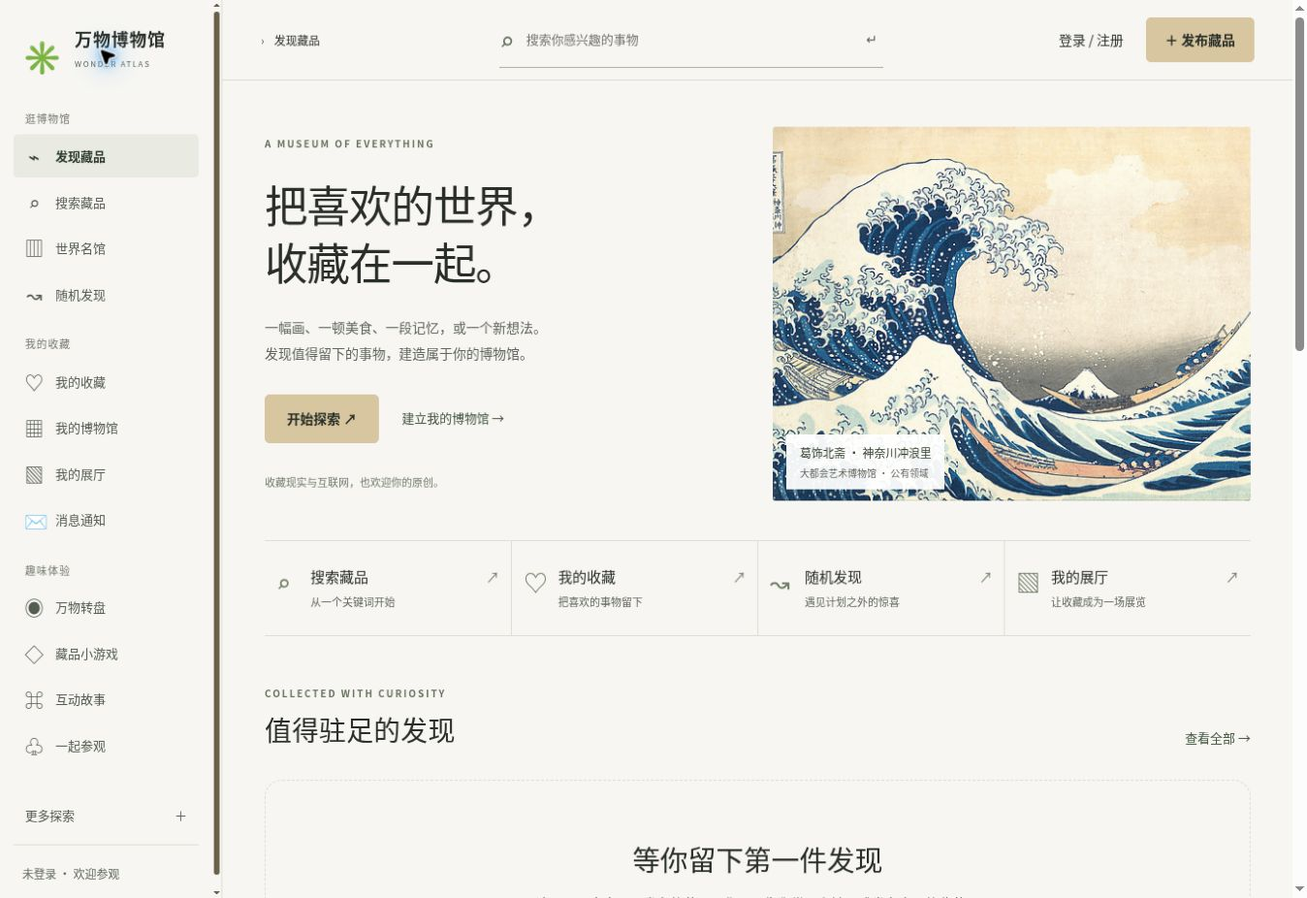
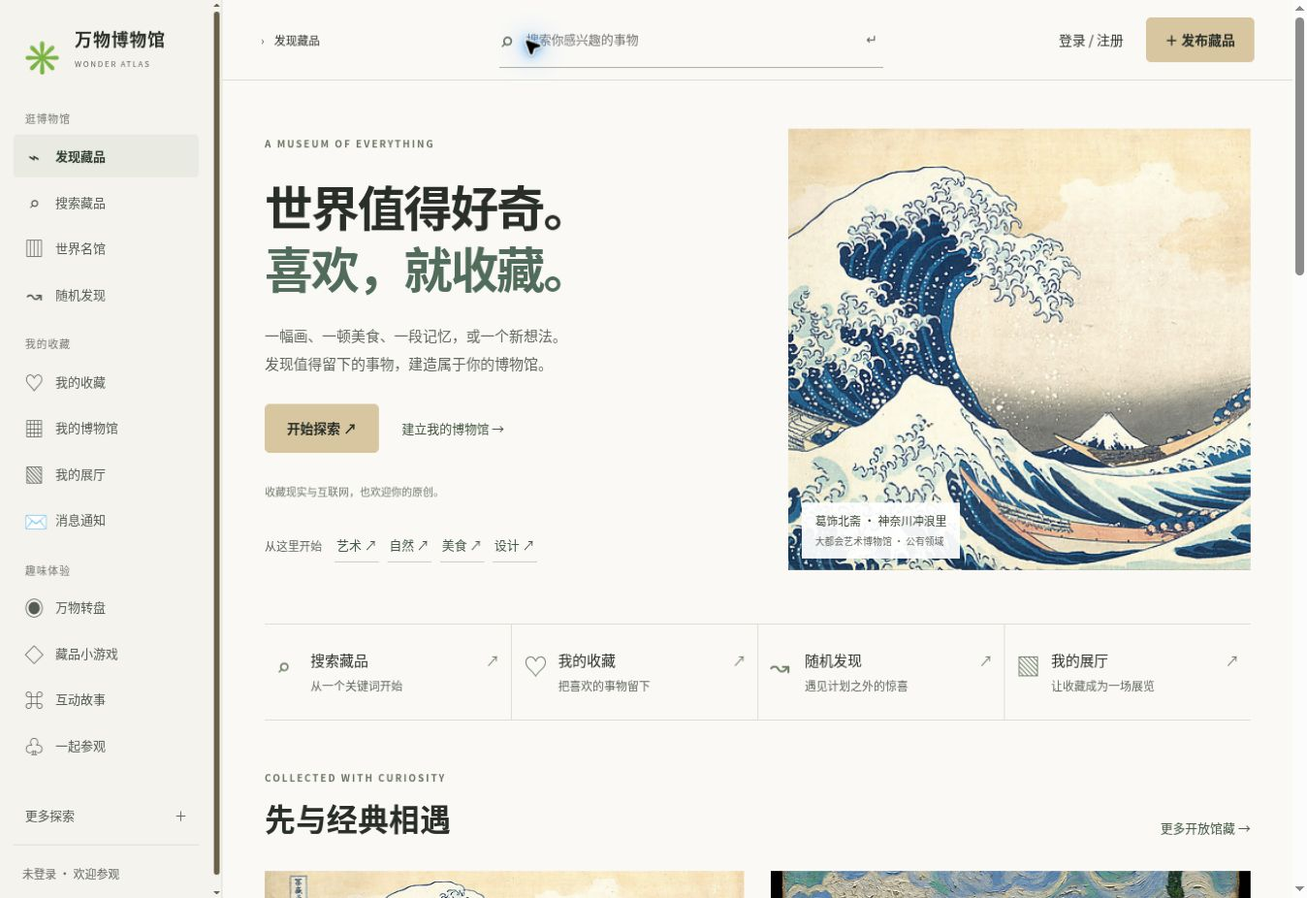
Refine museum editorial design and clearer collection onboarding [skip ci]

diff --git a/static/app.js b/static/app.js
@@ -75,14 +75,15 @@ async function discover(){
  const feed=await api(`/feed?sort=popular&page=1`);S.items=feed.items;
  const withImage=feed.items.find(x=>x.image_url);
  const feature=withImage?`<button class="museum-cover" data-action="detail" data-id="${withImage.id}"><img src="${E(withImage.image_url)}" alt="${E(withImage.title)}"><span>${E(withImage.title)} ↗</span></button>`:`<div class="museum-cover museum-cover-empty"><img src="/static/assets/museum/wave.jpg" alt="葛饰北斋《神奈川冲浪里》，大都会艺术博物馆开放馆藏"><div class="cover-caption">葛饰北斋 · 神奈川冲浪里<br><small>大都会艺术博物馆 · 公有领域</small></div></div>`;
- return `<section class="museum-hero"><div class="museum-hero-copy"><div class="eyebrow">A MUSEUM OF EVERYTHING</div><h1>把喜欢的世界，<br>收藏在一起。</h1><p>一幅画、一顿美食、一段记忆，或一个新想法。<br>发现值得留下的事物，建造属于你的博物馆。</p><div class="hero-buttons"><button class="primary" data-action="navigate" data-view="search">开始探索 ↗</button><button class="text-button" data-action="navigate" data-view="museum">建立我的博物馆 →</button></div><small class="hero-note">收藏现实与互联网，也欢迎你的原创。</small></div>${feature}</section>
+ return `<section class="museum-hero"><div class="museum-hero-copy"><div class="eyebrow">A MUSEUM OF EVERYTHING</div><h1>世界值得好奇。<br><em>喜欢，就收藏。</em></h1><p>一幅画、一顿美食、一段记忆，或一个新想法。<br>发现值得留下的事物，建造属于你的博物馆。</p><div class="hero-buttons"><button class="primary" data-action="navigate" data-view="search">开始探索 ↗</button><button class="text-button" data-action="navigate" data-view="museum">建立我的博物馆 →</button></div><small class="hero-note">收藏现实与互联网，也欢迎你的原创。</small><div class="hero-topics" aria-label="搜索灵感"><span>从这里开始</span><button data-action="searchPreset" data-value="艺术">艺术 ↗</button><button data-action="searchPreset" data-value="自然">自然 ↗</button><button data-action="searchPreset" data-value="美食">美食 ↗</button><button data-action="searchPreset" data-value="设计">设计 ↗</button></div></div>${feature}</section>
  <nav class="home-shortcuts" aria-label="开始探索">${[['search','⌕','搜索藏品','从一个关键词开始'],['saved','♡','我的收藏','把喜欢的事物留下'],['journey','↝','随机发现','遇见计划之外的惊喜'],['virtual-gallery','▧','我的展厅','让收藏成为一场展览']].map(([v,i,t,d])=>`<button data-action="navigate" data-view="${v}"><span>${i}</span><b>${t}</b><small>${d}</small><i>↗</i></button>`).join('')}</nav>
- <section class="home-section"><div class="home-section-head"><div><div class="eyebrow">COLLECTED WITH CURIOSITY</div><h2>值得驻足的发现</h2></div><button class="text-button" data-action="navigate" data-view="search">查看全部 →</button></div>${feed.items.length?`<div class="card-grid">${feed.items.slice(0,6).map(card).join('')}</div>`:empty('等你留下第一件发现','这里展示大家公开发布的藏品。你可以先逛世界名馆，或发布自己的收藏。','<button class="ghost" data-action="new">＋ 发布藏品</button>')}</section>
+ <section class="home-section"><div class="home-section-head"><div><div class="eyebrow">COLLECTED WITH CURIOSITY</div><h2>${feed.items.length?'值得驻足的发现':'先与经典相遇'}</h2></div><button class="text-button" data-action="navigate" data-view="${feed.items.length?'search':'world-museums'}">${feed.items.length?'查看全部':'更多开放馆藏'} →</button></div>${feed.items.length?`<div class="card-grid">${feed.items.slice(0,6).map(card).join('')}</div>`:`<div class="editorial-collection"><a href="https://www.metmuseum.org/art/collection/search/45434" target="_blank" rel="noopener noreferrer"><img src="/static/assets/museum/wave.jpg" alt="葛饰北斋的木版画神奈川冲浪里" loading="lazy"><div><small>版画 / 约 1830–1832 年</small><h3>神奈川冲浪里</h3><p>葛饰北斋 · 大都会艺术博物馆</p><span>查看官方档案 ↗</span></div></a><a href="https://www.metmuseum.org/art/collection/search/436535" target="_blank" rel="noopener noreferrer"><img src="/static/assets/museum/cypresses.jpg" alt="梵高的油画麦田与柏树" loading="lazy"><div><small>油画 / 1889 年</small><h3>麦田与柏树</h3><p>文森特·梵高 · 大都会艺术博物馆</p><span>查看官方档案 ↗</span></div></a></div><p class="collection-note">开放馆藏选读 · 图片为公有领域作品。社区的新发现将在有人公开发布后显示。</p>`}</section>
+ <section class="collector-start" aria-label="新手指南"><div><div class="eyebrow">YOUR OWN MUSEUM</div><h2>你的博物馆，<br>从一件喜欢开始。</h2><button class="text-button" data-action="navigate" data-view="museum">进入我的博物馆 →</button></div><ol><li><b>发现与收藏</b><p>搜索感兴趣的内容，在藏品档案里点收藏。</p></li><li><b>发布你的发现</b><p>上传图片、保存链接或记录想法，自选公开或私密。</p></li><li><b>按主题布置展厅</b><p>整理自己的藏品，建立展厅，再邀请朋友参观。</p></li></ol></section>
  <section class="home-section"><div class="home-section-head"><div><div class="eyebrow">FIND YOUR INTEREST</div><h2>从兴趣出发</h2></div></div><div class="domain-browser">${Object.entries(TAX.groups).map(([d,cats],i)=>`<details class="domain-row" ${i>=6?'data-extra-domain hidden':''}><summary><span class="domain-number">${String(i+1).padStart(2,'0')}</span><b>${E(d)}</b><small>${cats.length} 个分类</small><span>＋</span></summary><div class="domain-children"><button data-action="taxonomyDomain" data-value="${E(d)}">浏览整个领域 →</button>${cats.map(c=>`<button data-action="taxonomyCategory" data-value="${E(c)}" data-domain="${E(d)}">${E(c)}</button>`).join('')}</div></details>`).join('')}</div><button class="text-button" data-action="allDomains" aria-expanded="false">展开全部 ${Object.keys(TAX.groups).length} 个领域 ↓</button></section>
  <section class="museum-collection-promo"><img src="/static/assets/museum/cypresses.jpg" alt="梵高《麦田与柏树》，大都会艺术博物馆公有领域馆藏" loading="lazy"><div><div class="eyebrow">THE WORLD'S COLLECTIONS</div><h2>走近世界名馆，<br>从一件作品开始。</h2><p>浏览大都会、芝加哥与克利夫兰艺术博物馆的真实开放馆藏，查看来源，再收入自己的博物馆。</p><button class="ghost" data-action="navigate" data-view="world-museums">走进世界名馆 ↗</button></div></section>
  <section class="home-section"><div class="home-section-head"><div><div class="eyebrow">A LITTLE PLAY, A NEW DISCOVERY</div><h2>换一种方式逛博物馆</h2></div></div><div class="experience-links"><button data-action="navigate" data-view="wheels"><span>01 / 随机选择</span><h3>今天，选哪一个？</h3><p>把收藏加入转盘，吃什么、看什么，都可以抽。</p><b>打开万物转盘 ↗</b></button><button data-action="navigate" data-view="play"><span>02 / 藏品小游戏</span><h3>让好奇心动起来。</h3><p>用真实公开藏品玩记忆、配对和互动游戏。</p><b>开始玩 ↗</b></button><button data-wa="module" data-value="11"><span>03 / 一起参观</span><h3>好东西，一起看。</h3><p>创建参观房间，用房间码邀请朋友一起逛。</p><b>邀请朋友 ↗</b></button></div></section>`;
 }
-async function museum(){if(!S.user)return guest('建造属于自己的世界','注册一个账号，便能发布展品、布置展厅，并向其他人公开展示。');const [mine,halls]=await Promise.all([api('/my/exhibits'),api('/my/halls')]);S.mine=mine;S.halls=halls;return `<div class="eyebrow">MY WORLD · PERSONAL MUSEUM</div><h1 class="page-title">${E(S.user.username)} 的万物博物馆</h1><p class="page-intro">收藏，是建造自己世界的第一步。所有私人展品只有你自己能看见。</p>
+async function museum(){if(!S.user)return guest('建立我的博物馆','注册一个账号，便能发布展品、布置展厅，并向其他人公开展示。');const [mine,halls]=await Promise.all([api('/my/exhibits'),api('/my/halls')]);S.mine=mine;S.halls=halls;return `<div class="eyebrow">MY WORLD · PERSONAL MUSEUM</div><h1 class="page-title">${E(S.user.username)} 的万物博物馆</h1><p class="page-intro">收藏，是建造自己世界的第一步。所有私人展品只有你自己能看见。</p>
 ${usageGuide('我的博物馆怎么用',['添加展品：保存现实发现、网页链接、图片或原创想法。','创建展厅：按主题整理藏品，设置公开参观或仅自己可见。','进入展厅后可自由布展、沉浸参观；重要数据可导出备份。'])}
 <div class="feature-box" style="margin-top:25px"><div><span class="eyebrow">THE CURATOR'S STUDIO</span><h2>我的世界，由我陈列。</h2><p>在这里组织自己的收藏，创建主题展厅，拖动展品布置位置，也可以邀请其他人来参观公开的展厅。</p><div class="row-actions"><button class="primary" data-action="new">＋ 添加展品</button><button class="ghost" data-action="newHall">＋ 创建展厅</button><button class="ghost" data-action="navigate" data-view="virtual-gallery">▧ 我的展厅</button><button class="ghost" data-action="import">⇧ 导入旧版收藏</button><button class="ghost" data-action="export">⇩ 备份数据</button></div></div><div class="feature-symbol">❖</div></div>
 ${heading('ROOMS · COLLECTION SPACES','我的展厅',`已建立 ${halls.length} 个主题展厅 · 点击进入布展或参观`)}
@@ -90,7 +91,7 @@ ${halls.length?`<div class="mini-halls">${halls.map(h=>`<button class="hall-card
 ${heading('MY COLLECTION · ARCHIVE','我的全部展品',`${mine.length} 件收藏，包括公开与私密内容`)}
 ${mine.length?`<div class="card-grid">${mine.map(card).join('')}</div>`:empty('还没有自己的展品','把第一件让你感到有趣的事物放进万物博物馆。')}`}
 function guest(title,desc){return `<div class="feature-box"><div><div class="eyebrow">YOUR WORLD IS WAITING</div><h2>${title}</h2><p>${desc}</p><button class="primary" data-action="login">登录 / 免费注册</button></div><div class="feature-symbol">✧</div></div>`}
-async function saved(){if(!S.user)return guest('喜欢的事物，值得留存','创建账号之后，你可以把其他馆长的公开展品加入自己的心动清单。');S.saved=await api('/my/saved');return `<div class="eyebrow">HEART COLLECTION</div><h1 class="page-title">我的收藏</h1><p class="page-intro">这里专门保存你在浏览其他展品时收藏的有趣事物；它与自己发布的馆藏分开管理。</p>${usageGuide('我的收藏怎么用',['在任意公开展品详情中点击收藏。','回到这里继续查看，不必重新搜索。','原作者删除或设为私密后，相关内容可能不再公开可见。'])}<div style="height:22px"></div>${S.saved.length?`<div class="card-grid">${S.saved.map(card).join('')}</div>`:empty('暂时没有心动藏品','去探索大厅发现让你喜欢的东西。','<button class="primary" data-action="navigate" data-view="discover">探索公开展品</button>')}`}
+async function saved(){if(!S.user)return guest('保存喜欢的藏品','创建账号之后，你可以把其他馆长的公开展品加入自己的心动清单。');S.saved=await api('/my/saved');return `<div class="eyebrow">HEART COLLECTION</div><h1 class="page-title">我的收藏</h1><p class="page-intro">这里专门保存你在浏览其他展品时收藏的有趣事物；它与自己发布的馆藏分开管理。</p>${usageGuide('我的收藏怎么用',['在任意公开展品详情中点击收藏。','回到这里继续查看，不必重新搜索。','原作者删除或设为私密后，相关内容可能不再公开可见。'])}<div style="height:22px"></div>${S.saved.length?`<div class="card-grid">${S.saved.map(card).join('')}</div>`:empty('暂时没有心动藏品','浏览公开藏品，打开档案后点击收藏。','<button class="primary" data-action="navigate" data-view="discover">探索公开展品</button>')}`}
 async function journey(){if(!S.journey)S.journey=await api('/random');return `<div class="eyebrow">SERENDIPITY · UNKNOWN DISCOVERIES</div><h1 class="page-title">奇遇航线</h1><p class="page-intro">不用输入关键词，让一次随机点击带你走进陌生人的发现。</p>${usageGuide('随机发现怎么玩',['系统从当前服务器的公开展品中随机抽取一件。','点“走近这件展品”阅读档案，再决定是否收藏或继续探索。','点“下一次奇遇”换一个对象；没有公开投稿时不会生成虚构展品。'])}${S.journey?`<div class="journey-layout">${art(S.journey)}<div class="journey-copy"><div class="eyebrow">YOU HAVE DISCOVERED · ${E(S.journey.category)}</div><h2>${E(S.journey.title)}</h2><p>${E(S.journey.description||'这是一件值得继续了解的东西。')}</p><p class="muted">来自馆长：${E(S.journey.owner)}</p><div class="row-actions"><button class="primary" data-action="detail" data-id="${S.journey.id}">走近这件展品 ↗</button><button class="ghost" data-action="reroll">✧ 下一次奇遇</button></div></div></div>`:empty('奇遇正在酝酿','目前还没有任何公开展品。等有馆长投稿后，你就可以在这里随机探索。','<button class="ghost" data-action="navigate" data-view="discover">返回发现藏品</button>')}`}
 async function notifications(){if(!S.user)return guest('别人的发现，也会回应你','注册登录之后，可以收到点赞、评论以及新的关注提醒。');let n=await api('/notifications');$('#navUnread').textContent=n.unread||'';return `<div class="eyebrow">ACTIVITY · SOCIAL</div><div class="section-title"><div><h1 class="page-title">通知中心</h1><p>他人的点赞、评论和关注会显示在这里。</p></div><button class="ghost" data-action="markRead">全部标为已读</button></div>${usageGuide('通知中心怎么用',['点击用户名进入馆长主页。','点击“查看”跳转到相关展品。','全部标为已读只改变你的通知状态，不会删除原始互动。'])}<div class="block">${n.items.length?n.items.map(x=>`<div class="notice ${x.is_read?'':'unread'}"><span class="n-ico">${x.kind==='follow'?'♡':x.kind==='like'?'♥':'✉'}</span><div><button class="userlink" data-action="user" data-name="${E(x.actor)}">${E(x.actor)}</button> ${x.kind==='follow'?'关注了你':x.kind==='like'?'赞了你的展品':'评论了你的展品'} ${x.exhibit_id?`<button class="userlink" data-action="detail" data-id="${x.exhibit_id}">查看 ↗</button>`:''}</div><time>${E(x.created_at.slice(0,10))}</time></div>`).join(''):empty('这里还没有消息','发布展品并分享给朋友，会收到他们的互动提醒。')}</div>`}
 async function profile(){if(!S.profile){if(!S.user)return guest('馆长主页','登录后查看自己的公开主页。');S.profile=S.user.username;}let d=await api('/users/'+encodeURIComponent(S.profile));S.profileData=d;return `<div class="eyebrow">CURATOR · PUBLIC MUSEUM</div><div class="feature-box" style="margin-top:15px"><div><span class="eyebrow">✧ 世界中的一位馆长</span><h2>${E(d.user.username)} 的世界</h2><p>${E(d.user.bio||'这位馆长还没有写介绍。')}</p><p class="muted">${d.items.length} 件可见展品 · ${d.followers} 位关注者 · 关注了 ${d.following} 人</p>${S.user&&S.user.id!==d.user.id?`<button class="primary" data-action="follow" data-id="${d.user.id}">${d.is_following?'✓ 已关注 · 点击取消':'＋ 关注馆长'}</button>`:''}${S.user&&S.user.id===d.user.id?`<button class="ghost" data-action="editBio">编辑个人介绍</button>`:''}</div><div class="feature-symbol">◈</div></div>

diff --git a/static/museum.css b/static/museum.css
@@ -6,13 +6,13 @@
 .global-search button{background:transparent;border:0;color:var(--muted);}
 .text-button{border:0;background:transparent;padding:10px 0;color:#435640;font-size:13px;white-space:nowrap;}
 .text-button:hover{text-decoration:underline;}
-.museum-hero{display:grid;grid-template-columns:1fr 1fr;gap:32px;align-items:center;min-height:420px;padding:10px 0 30px;}
+.museum-hero{display:grid;grid-template-columns:1.05fr 1fr;gap:40px;align-items:center;min-height:500px;padding:10px 0 44px;}
 .museum-hero-copy{padding:12px 0;}
-.museum-hero h1{font-size:clamp(32px,3.3vw,54px);line-height:1.35;font-weight:500;letter-spacing:-1px;margin:24px 0;}
-.museum-hero p{color:var(--muted);font-size:14px;line-height:1.95;}
+.museum-hero h1{font-size:clamp(36px,3.7vw,62px);line-height:1.27;font-weight:650;letter-spacing:-2px;margin:24px 0;}
+.museum-hero p{color:var(--muted);font-size:15px;line-height:1.95;}
 .museum-hero .hero-buttons{margin:28px 0;gap:24px;}
 .hero-note{font-size:11px;color:#737c6e;}
-.museum-cover{display:block;position:relative;width:100%;height:390px;overflow:hidden;background:#e7e9df;border:0;border-radius:3px;padding:0;}
+.museum-cover{display:block;position:relative;width:100%;height:460px;overflow:hidden;background:#e7e9df;border:0;border-radius:0;padding:0;}
 .museum-cover img{width:100%;height:100%;object-fit:cover;}
 .museum-cover>span{position:absolute;bottom:0;left:0;right:0;background:#ffffffed;text-align:left;padding:14px 18px;font-size:12px;color:var(--txt);}
 .cover-caption{position:absolute;bottom:12px;left:14px;background:#fffffff0;padding:9px 14px;color:#37432f;text-align:left;font-size:12px;}
@@ -23,18 +23,18 @@
 .home-shortcuts button>span{position:absolute;left:12px;top:22px;font-size:25px;color:#718068;}
 .home-shortcuts b,.home-shortcuts small{display:block;}
 .home-shortcuts b{font-weight:500;font-size:15px;}
-.home-shortcuts small{font-size:11px;color:var(--muted);margin-top:5px;}
+.home-shortcuts small{font-size:12px;color:var(--muted);margin-top:5px;}
 .home-shortcuts i{position:absolute;right:12px;top:26px;font-style:normal;color:#718068;}
 .home-shortcuts button:hover{background:#eef0e7;}
 .home-section{margin:44px 0 56px;}
 .home-section-head{display:flex;justify-content:space-between;align-items:end;gap:20px;margin:0 0 24px;}
-.home-section h2,.museum-collection-promo h2{font-size:28px;font-weight:500;line-height:1.5;letter-spacing:.4px;margin:8px 0;}
+.home-section h2,.museum-collection-promo h2{font-size:32px;font-weight:600;line-height:1.5;letter-spacing:.4px;margin:8px 0;}
 .domain-browser{display:grid;grid-template-columns:1fr 1fr;column-gap:36px;align-items:start;}
 .domain-row{border-bottom:1px solid var(--line);}
 .domain-row summary{display:flex;align-items:center;gap:15px;padding:17px 0;cursor:pointer;list-style:none;}
 .domain-row summary::-webkit-details-marker{display:none;}
 .domain-number{font-size:11px;color:#87917e;}
-.domain-row summary b{font-size:14px;font-weight:500;flex:1;}
+.domain-row summary b{font-size:16px;font-weight:500;flex:1;}
 .domain-row summary small{font-size:11px;color:var(--muted);}
 .domain-children{display:flex;gap:8px;flex-wrap:wrap;padding:0 0 20px;}
 .domain-children button{background:white;border:1px solid var(--line);border-radius:4px;color:#52604a;padding:7px 10px;font-size:12px;}
@@ -43,12 +43,35 @@
 .museum-collection-promo>img{width:100%;height:330px;object-fit:cover;}
 .museum-collection-promo>div{padding:36px;}
 .museum-collection-promo p{color:var(--muted);line-height:1.9;font-size:13px;max-width:360px;}
-.experience-links{display:grid;grid-template-columns:repeat(3,1fr);gap:32px;}
-.experience-links button{border:0;border-top:2px solid #98a68a;padding:22px 0;background:transparent;text-align:left;color:var(--txt);}
+.experience-links{display:grid;grid-template-columns:repeat(3,1fr);gap:16px;}
+.experience-links button{border:0;border-top:2px solid #98a68a;padding:26px 22px;background:#eef0e8;text-align:left;color:var(--txt);}
 .experience-links button>span{font-size:11px;letter-spacing:1px;color:#65745a;}
 .experience-links h3{font-size:20px;font-weight:500;margin:18px 0 12px;}
 .experience-links p{font-size:13px;color:var(--muted);line-height:1.8;min-height:47px;}
 .experience-links b{display:block;margin-top:24px;font-weight:500;font-size:12px;color:#516448;}
+.museum-hero h1 em{font-style:normal;color:#526c5b;}
+.hero-topics{display:flex;gap:9px;flex-wrap:wrap;align-items:center;margin-top:28px;}
+.hero-topics>span{font-size:12px;color:var(--muted);margin-right:4px;}
+.hero-topics button{border:0;border-bottom:1px solid #c9cec3;background:none;color:#465847;padding:6px 2px;font-size:13px;}
+.editorial-collection{display:grid;grid-template-columns:1fr 1fr;gap:28px;}
+.editorial-collection a{text-decoration:none;color:var(--txt);display:block;}
+.editorial-collection img{width:100%;height:300px;object-fit:cover;transition:filter .2s;}
+.editorial-collection a:hover img{filter:brightness(1.06);}
+.editorial-collection a>div{padding:18px 0;}
+.editorial-collection small,.editorial-collection p,.collection-note{font-size:12px;color:var(--muted);}
+.editorial-collection h3{font-size:23px;font-weight:500;margin:8px 0;}
+.editorial-collection span{font-size:13px;color:#526c5b;}
+.collector-start{display:grid;grid-template-columns:1fr 1.1fr;gap:40px;background:#efebe2;padding:40px;margin:52px 0;}
+.collector-start h2{font-size:30px;font-weight:500;line-height:1.55;margin:14px 0;}
+.collector-start ol{list-style:none;counter-reset:steps;margin:0;padding:0;}
+.collector-start li{counter-increment:steps;position:relative;padding:0 0 20px 44px;}
+.collector-start li:last-child{padding-bottom:0;}
+.collector-start li:before{content:'0' counter(steps);position:absolute;left:0;top:2px;font-size:13px;color:#8a684c;}
+.collector-start b{font-size:16px;font-weight:600;}
+.collector-start p{font-size:13px;color:var(--muted);margin:6px 0 0;}
+.experience-links button:nth-child(2){background:#f1e9de;border-top-color:#b69b7e;}
+.experience-links button:nth-child(3){background:#e9edf0;border-top-color:#94a4b0;}
+.domain-row[open] summary>span:last-child{transform:rotate(45deg);}
 @media (min-width:1100px){
 .breadcrumbs .breadcrumb-home,.breadcrumb-section{display:none;}
 .top-left{min-width:72px;}
@@ -65,9 +88,15 @@
 .breadcrumbs{display:none;}
 .topbar{padding:0 24px;}
 .museum-hero h1{font-size:36px;}
-.home-shortcuts small{font-size:10px;}
+.home-shortcuts small{font-size:12px;}
 }
 @media (max-width:800px){
+.editorial-collection{gap:20px;grid-template-columns:1fr;}
+.editorial-collection img{height:260px;}
+.collector-start{grid-template-columns:1fr;gap:24px;padding:24px;margin:36px 0;}
+.collector-start h2{font-size:26px;}
+.hero-topics{margin-top:20px;}
+
 .sidebar{display:none;}
 .content-shell{width:100%;}
 .mobile-logo span{font-size:12px;font-weight:600;}
@@ -85,16 +114,16 @@
 .mobile-nav button span{font-size:22px;}
 .mobile-nav button.active{color:#314b2b;background:#edf0e8;}
 .museum-hero{grid-template-columns:1fr;gap:20px;padding:4px 0 28px;min-height:0;}
-.museum-hero h1{font-size:38px;margin:18px 0;}
-.museum-hero p{font-size:13px;}
+.museum-hero h1{font-size:38px;margin:18px 0;letter-spacing:-1px;}
+.museum-hero p{font-size:14px;}
 .museum-hero .hero-buttons{margin:22px 0 18px;gap:22px;}
 .museum-cover{height:270px;}
 .home-shortcuts{grid-template-columns:1fr 1fr;margin-bottom:36px;}
 .home-shortcuts button{padding:19px 12px 19px 42px;}
 .home-shortcuts button>span{top:17px;left:10px;}
 .home-shortcuts button:nth-child(3){border-left:0;}
-.home-shortcuts button:nth-child(n/**/+3){border-top:1px solid var(--line);}
-.home-shortcuts small{font-size:10px;}
+.home-shortcuts button:nth-child(n+3){border-top:1px solid var(--line);}
+.home-shortcuts small{font-size:12px;}
 .home-shortcuts b{font-size:13px;}
 .home-section{margin:32px 0 40px;}
 .home-section h2,.museum-collection-promo h2{font-size:23px;}
@@ -112,7 +141,7 @@
 .museum-collection-promo>img{height:230px;}
 .museum-collection-promo>div{padding:25px;}
 .experience-links{grid-template-columns:1fr;gap:14px;}
-.experience-links button{padding:17px 0;}
+.experience-links button{padding:22px;}
 .experience-links p{min-height:0;}
 .experience-links b{margin-top:14px;}
 .footer{display:none;}
@@ -128,7 +157,7 @@
 .card-grid{grid-template-columns:1fr;}
 .museum-cover{height:230px;}
 .global-search input{font-size:12px;}
-.home-shortcuts small{font-size:9px;}
+.home-shortcuts small{font-size:11px;}
 }
 @media (prefers-reduced-motion:reduce){
 *,*::before,*::after{scroll-behavior:auto!important;animation:none!important;transition:none!important;}

diff --git a/static/style.css b/static/style.css
@@ -1,4 +1,4 @@
-:root{color-scheme:light;--bg:#f7f6f2;--s:#fff;--s2:#f0eee7;--line:#dedfd6;--txt:#292e29;--muted:#62685f;--gold:#b59a64;--orange:#9a6542;--teal:#5f796a;--radius:10px;--font:-apple-system,BlinkMacSystemFont,"Segoe UI","PingFang SC","Microsoft YaHei",sans-serif;}
+:root{color-scheme:light;--bg:#faf9f6;--s:#fff;--s2:#f0eee7;--line:#dedfd6;--txt:#292e29;--muted:#62685f;--gold:#b59a64;--orange:#9a6542;--teal:#5f796a;--radius:10px;--font:-apple-system,BlinkMacSystemFont,"Segoe UI","PingFang SC","Microsoft YaHei",sans-serif;}
 *{box-sizing:border-box;}
 html{scroll-behavior:smooth;}
 body{margin:0;background:var(--bg);font:14px/1.65 -apple-system,BlinkMacSystemFont,"Segoe UI","PingFang SC","Microsoft YaHei",sans-serif;color:var(--txt);}
@@ -45,7 +45,7 @@ a{color:var(--gold);}
 .mobile-logo{display:none;}
 #main{padding:36px 44px 72px;min-height:calc(100vh - 145px);}
 .footer{margin:0 40px;padding:25px 0 35px;display:flex;justify-content:space-between;gap:15px;color:var(--muted);border-top:1px solid var(--line);font-size:11px;}
-.loading,.empty{padding:60px 25px;text-align:center;color:var(--muted);border:1px dashed var(--line);border-radius:18px;}
+.loading,.empty{padding:60px 25px;text-align:center;color:var(--muted);border:0;background:var(--s2);border-radius:4px;}
 .empty b{display:block;font:normal 29px var(--font);color:var(--txt);margin-bottom:10px;}
 .empty .primary{margin-top:18px;}
 .eyebrow{font-size:10px;letter-spacing:2px;color:#687560;font-weight:700;}
@@ -234,7 +234,7 @@ a{color:var(--gold);}
 .series-tab{flex:1;padding:9px 8px;}
 .taxonomy-intro{font-size:10px;}
 }
-.sidebar{position:sticky;top:0;height:100vh;display:flex;flex-direction:column;z-index:12;overflow-y:auto;overscroll-behavior:contain;scrollbar-width:thin;scrollbar-color:#6b604a transparent;flex:0 0 232px;width:232px;padding:22px 14px;background:#f7f6f2;border-right:1px solid var(--line);}
+.sidebar{position:sticky;top:0;height:100vh;display:flex;flex-direction:column;z-index:12;overflow-y:auto;overscroll-behavior:contain;scrollbar-width:thin;scrollbar-color:#6b604a transparent;flex:0 0 232px;width:232px;padding:22px 14px;background:#f4f3ed;border-right:1px solid var(--line);}
 .sidebar .brand{padding-bottom:18px;flex:0 0 auto;}
 .sidebar .nav-cap{padding:20px 12px 8px;letter-spacing:1px;font-size:11px;}
 .sidebar .nav{gap:3px;}

diff --git a/static/unified-search.js b/static/unified-search.js
@@ -54,8 +54,8 @@ window.WonderSearch=(()=>{
     (data.items.length?'<div class="us-results">'+data.items.map(x=>
       '<div class="us-result">'+card(x)+'<p class="us-match">'+(x.matched_in.length?'匹配位置：'+E(x.matched_in.join('、')):'公开藏品 · '+E(x.domain||'尚未分类'))+'</p></div>'
      ).join('')+'</div>':
-     '<div class="us-empty"><h2>目前没有找到符合条件的藏品</h2><p>可以减少关键词、清除筛选或试试其他叫法。这里只展示真实且当前公开的内容，不会虚构搜索结果。</p>'+
-     '<button class="ghost" data-action="searchReset">清除筛选</button> <button class="ghost" data-action="navigate" data-view="discover">返回首页</button></div>')+
+     '<div class="us-empty"><h2>目前没有找到符合条件的藏品</h2><p>试试更短的关键词，或清除筛选条件。想先看看经典作品？可以前往世界名馆。</p>'+
+     '<button class="ghost" data-action="searchReset">清除筛选</button> <button class="ghost" data-action="navigate" data-view="world-museums">浏览世界名馆 ↗</button></div>')+
     '<div class="us-pages">'+(data.page>1?'<button class="ghost" data-action="searchPage" data-page="'+(data.page-1)+'">← 上一页</button>':'')+
     (data.total?'<span>第 '+data.page+' 页 · 当前 '+currentStart+'–'+Math.min(data.page*data.per_page,data.total)+' 件</span>':'')+
     (data.has_more?'<button class="ghost" data-action="searchPage" data-page="'+(data.page+1)+'">下一页 →</button>':'')+'</div>'+

diff --git a/tests/test_cosmos.py b/tests/test_cosmos.py
@@ -127,4 +127,4 @@ def test_ui_resources_and_server_mount(env):
     assert '/static/cosmos.css' in page.text
     assert env[2].get('/static/cosmos.js').status_code==200
     assert env[2].get('/static/cosmos.css').status_code==200
-    assert '世界时间长河' in env[2].get('/static/cosmos.js').text
+    assert '按年代浏览' in env[2].get('/static/cosmos.js').text

diff --git a/docs/UI_REFINEMENT_20261114.md b/docs/UI_REFINEMENT_20261114.md
@@ -1,0 +1,22 @@
+# 2026-11-14 视觉与使用体验更新
+
+在已有全站浅色导航改造上继续完善，保留全部路由、API、分类数据和权限逻辑。
+
+- 首页采用更大的作品画面、清晰标题和灰绿强调色；趣味体验用米色、灰绿、灰蓝区分。
+- 添加艺术、自然、美食、设计关键词入口，复用统一搜索。
+- 没有社区投稿时展示两件有明确来源的公有领域作品，链接官方档案；有真实投稿时继续展示社区内容。
+- 新增收藏、发布、布展三步使用说明，明确公开与私密选择。
+- 搜索无结果时提供世界名馆入口；开放馆藏区域的“更多”也指向世界名馆。
+- 放大辅助文字、分类名称，改进手机单列布局，去除空状态虚线框。
+
+参考官方首页：https://www.metmuseum.org/ 、https://www.rijksmuseum.nl/en 、https://www.moma.org/ 。采用按任务分组和作品优先的组织方式，未复制其页面。
+
+## 验证
+
+- JavaScript 42 个文件语法检查通过；最终变更的 app.js / unified-search.js 再检查通过；git diff --check 通过。
+- 全量测试：322 通过，1 项旧标题断言失败。该断言仍要求“世界时间长河”，现有页面已经叫“按年代浏览”；更新断言后，cosmos 全部 5 项通过。未改动行为或隐私断言。
+- 浏览器检查桌面 1348 × 928 左右及 390 × 844 iframe 手机布局（非真机）；验证兴趣搜索、全部 32 个领域展开/收起。
+- 本轮没有使用真实用户登录或修改生产数据。登录后操作仍由原有集成测试覆盖。
+- 本地预览可运行，未新增公网部署；外部馆藏 API 可用性取决于网络。
+
+涉及文件：static/app.js、static/museum.css、static/style.css、static/unified-search.js、tests/test_cosmos.py，及首页验收截图。
